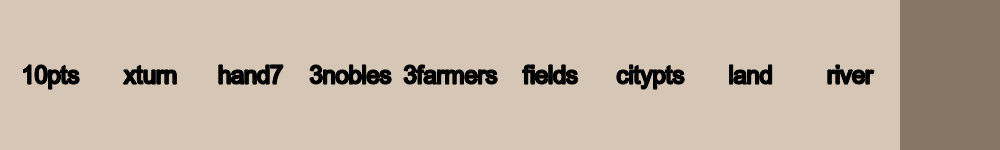
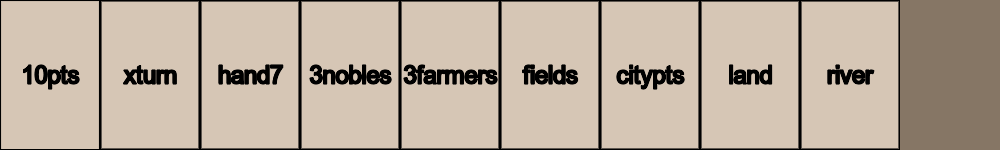
visual tweaks, no rounded corners on zcards

Changed region(s): [[0.0, 0.0, 0.899, 1.0]]

diff --git a/babylonia.css b/babylonia.css
@@ -28,7 +28,7 @@
     height: 768px;
 }
 
-.board {
+#board {
     font-size: 0; /* disable white space between inline block element */
     background: url(img/mapb.jpg) no-repeat center;
     background-size: cover;
@@ -299,7 +299,6 @@
 
 #available_zcards > div {
     display: inline-block;
-    border-radius: 10px;
     height: 135px;
     width: 90px;
     margin: 10px;
@@ -310,7 +309,6 @@
 #available_zcards > div:not([class]),
 #available_zcards > div[class=''] {
     background-position: -900% 0%;
-    border-style: dotted;
 }
 
 .zc_10pts {
@@ -408,7 +406,6 @@ div.b_zcards span.b_zcard_label {
 div.b_zcards > div {
     display: inline-block;
     margin: 3px;
-    border-radius: 5px;
     height: 2.4em;
     width: 1.6em;
     background-size: 1000% 100%;
@@ -426,7 +423,6 @@ a.action-button:has(> div.zcard) {
 }
 
 a.action-button > div.zcard {
-    border-radius: 5px;
     border: 0;
     border-style: none;
     height: 6em;
@@ -502,7 +498,6 @@ a.action-button > div.zcard {
 .log-element.zc_river
 {
     display: inline-block;
-    border-radius: 5px;
     height: 2.1em;
     width: 1.4em;
     background-size: 1000% 100%;
